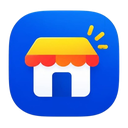
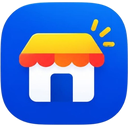
Prepare app for deployment

diff --git a/js/app.js b/js/app.js
@@ -545,7 +545,7 @@ async function checkout() {
     if (S.metode === 'qris') {
       const accepted = await confirmModal(
         'Simpan transaksi QRIS?',
-        'Simpan sebagai menunggu pembayaran',
+        'Simpan',
         'Transaksi belum dianggap lunas. Setelah pelanggan membayar, kasir perlu mencocokkan pembayaran dan mengonfirmasikannya secara manual.',
       );
       if (!accepted) return;
@@ -599,11 +599,12 @@ function showReceipt(sale) {
     ? `<section class="qris-payment"><h3>Pembayaran QRIS — ${rp(L.saleTotal(sale))}</h3><img class="qris-preview" src="${esc(S.cfg.qrisImage)}" alt="QRIS toko untuk transaksi ${esc(sale.id)}"><p>Pelanggan memindai QR ini dan membayar ${rp(L.saleTotal(sale))}. Konfirmasi hanya setelah pembayaran cocok pada aplikasi atau mutasi akun Anda.</p><span class="chip warn">Menunggu konfirmasi manual</span></section>`
     : '';
   const controls = pending
-    ? `<button class="btn primary receipt-confirm" data-act="confirm-qris" data-id="${esc(sale.id)}">Konfirmasi pembayaran diterima</button><button class="btn danger" data-act="cancel-qris" data-id="${esc(sale.id)}">Batalkan transaksi</button>`
+    ? `<button class="btn primary receipt-confirm" type="button" data-act="confirm-qris" data-id="${esc(sale.id)}">Simpan</button><button class="btn danger" type="button" data-act="cancel-qris" data-id="${esc(sale.id)}">Batal</button>`
     : '';
-  const d = openDialog(`<div class="dlg-body receipt-dialog"><button class="dialog-close no-print" type="button" data-close aria-label="Tutup modal" title="Tutup">×</button><h2>${pending ? 'Menunggu pembayaran QRIS' : 'Transaksi tersimpan'}</h2>
+  const otherControls = pending ? '' : `<button class="btn" data-act="receipt-pdf" data-id="${esc(sale.id)}">Unduh PDF</button><button class="btn" data-act="receipt-jpg" data-id="${esc(sale.id)}">Unduh JPG</button><button class="btn primary" data-act="share-receipt" data-id="${esc(sale.id)}" data-format="pdf">Bagikan PDF</button><button class="btn" data-act="share-receipt" data-id="${esc(sale.id)}" data-format="jpg">Bagikan JPG</button><button class="btn" data-act="print-receipt">Cetak</button><a class="btn" href="${L.waLink(cust ? cust.wa : '', text)}" target="_blank" rel="noopener noreferrer">Buka WhatsApp (lampirkan manual)</a>`;
+  const d = openDialog(`<div class="dlg-body receipt-dialog">${pending ? '' : '<button class="dialog-close no-print" type="button" data-close aria-label="Tutup modal" title="Tutup">×</button>'}<h2>${pending ? 'Menunggu pembayaran QRIS' : 'Transaksi tersimpan'}</h2>
     ${qris}<article class="receipt-paper" id="receipt-paper"><pre class="struk visually-hidden">${esc(text.replace(/\*/g, ''))}</pre></article>
-    <div class="receipt-actions no-print">${controls}<button class="btn" data-act="receipt-pdf" data-id="${esc(sale.id)}">Unduh PDF</button><button class="btn" data-act="receipt-jpg" data-id="${esc(sale.id)}">Unduh JPG</button><button class="btn primary" data-act="share-receipt" data-id="${esc(sale.id)}" data-format="pdf">Bagikan PDF</button><button class="btn" data-act="share-receipt" data-id="${esc(sale.id)}" data-format="jpg">Bagikan JPG</button><button class="btn" data-act="print-receipt">Cetak</button><a class="btn" href="${L.waLink(cust ? cust.wa : '', text)}" target="_blank" rel="noopener noreferrer">Buka WhatsApp (lampirkan manual)</a></div><p class="muted small no-print">WhatsApp tidak otomatis menerima file dari tautan pesan. Jika berbagi file tidak tersedia, unduh file, buka WhatsApp, lalu lampirkan secara manual.</p></div>`);
+    <div class="receipt-actions no-print">${controls}${otherControls}</div>${pending ? '' : '<p class="muted small no-print">WhatsApp tidak otomatis menerima file dari tautan pesan. Jika berbagi file tidak tersedia, unduh file, buka WhatsApp, lalu lampirkan secara manual.</p>'}</div>`);
   d.classList.add('receipt-modal');
   d.addEventListener('click', (event) => {
     if (event.target === d) d.close();
@@ -909,13 +910,24 @@ function repRange() {
   return [from, to];
 }
 function barChart(series) {
-  const W = 600, H = 170, pad = 8, max = Math.max(...series.map((s) => s.omzet), 1);
-  const bw = (W - pad * 2) / series.length;
-  const bars = series.map((s, i) => {
-    const h = (s.omzet / max) * (H - 34);
-    return `<rect x="${(pad + i * bw + bw * 0.15).toFixed(1)}" y="${(H - 18 - h).toFixed(1)}" width="${(bw * 0.7).toFixed(1)}" height="${h.toFixed(1)}" rx="2"><title>${s.date}: ${rp(s.omzet)}</title></rect>`;
+  const W = 720, H = 220, left = 72, right = 18, top = 24, bottom = 38;
+  const plotW = W - left - right, plotH = H - top - bottom;
+  const max = Math.max(...series.map((s) => s.omzet), 1);
+  const step = series.length > 1 ? plotW / series.length : plotW;
+  const labelStep = Math.max(1, Math.ceil(series.length / (window.innerWidth < 520 ? 5 : 8)));
+  const grid = [0, .25, .5, .75, 1].map((level) => {
+    const y = top + plotH * (1 - level);
+    return `<line x1="${left}" y1="${y}" x2="${W - right}" y2="${y}" class="chart-grid"/><text x="${left - 8}" y="${y + 4}" text-anchor="end" class="chart-axis">${level ? rp(max * level).replace(',00', '') : '0'}</text>`;
   }).join('');
-  return `<svg viewBox="0 0 ${W} ${H}" class="chart" role="img" aria-label="Grafik omzet harian">${bars}<text x="${pad}" y="${H - 3}">${series[0].date.slice(5)}</text><text x="${W - pad}" y="${H - 3}" text-anchor="end">${series[series.length - 1].date.slice(5)}</text><text x="${pad}" y="12">Tertinggi ${rp(max)}</text></svg>`;
+  const bars = series.map((s, i) => {
+    const h = s.omzet / max * plotH;
+    const x = left + i * step + Math.min(step * .18, 6);
+    const width = Math.max(3, step * .64);
+    return `<rect x="${x.toFixed(1)}" y="${(top + plotH - h).toFixed(1)}" width="${width.toFixed(1)}" height="${h.toFixed(1)}" rx="3"><title>${fmtDate(s.date)}: ${rp(s.omzet)}</title></rect>`;
+  }).join('');
+  const labels = series.map((s, i) => i % labelStep === 0 || i === series.length - 1
+    ? `<text x="${(left + i * step + step / 2).toFixed(1)}" y="${H - 10}" text-anchor="middle" class="chart-label">${s.date.slice(5)}</text>` : '').join('');
+  return `<div class="chart-wrap"><svg viewBox="0 0 ${W} ${H}" class="chart" role="img" aria-label="Grafik omzet harian"><g>${grid}${bars}${labels}</g></svg></div>`;
 }
 function vLaporan() {
   const [from, to] = repRange();
@@ -926,14 +938,17 @@ function vLaporan() {
   S.expenses.filter((e) => L.inRange(e.waktu, from, to)).forEach((e) => (byKat[e.kategori] = (byKat[e.kategori] || 0) + e.jumlah));
   const P = [['hari', 'Hari ini'], ['7', '7 hari terakhir'], ['30', '30 hari terakhir'], ['bulan', 'Bulan ini'], ['lalu', 'Bulan lalu'], ['kustom', 'Pilih tanggal']];
   const r = (l, v, cls = '') => `<tr class="${cls}"><td>${l}</td><td class="num">${v}</td></tr>`;
-  return `<section class="card no-print"><label class="field"><span>Periode</span><select id="rp">${P.map(([v, l]) => `<option value="${v}"${S.rep.preset === v ? ' selected' : ''}>${l}</option>`).join('')}</select></label>
-    ${S.rep.preset === 'kustom' ? `<div class="row"><label class="field"><span>Dari</span><input id="rf" type="date" value="${S.rep.from}"></label><label class="field"><span>Sampai</span><input id="rt" type="date" value="${S.rep.to}"></label></div>` : ''}</section>
-  <section class="card"><h2>Laba rugi</h2><p class="muted small">${fmtDate(from)} hingga ${fmtDate(to)} · ${esc(S.cfg.toko || 'WarungPintar')}</p>
+  const printRows = sold.map((item, index) => `<tr><td>${index + 1}</td><td>${esc(item.nama)}</td><td class="num">${item.qty}</td><td class="num">${rp(item.omzet / item.qty)}</td><td class="num">${rp(item.omzet)}</td></tr>`).join('');
+  const printTotal = sold.reduce((sum, item) => sum + item.omzet, 0);
+  return `<section class="report-page"><section class="card no-print report-filter"><label class="field"><span>Periode</span><select id="rp">${P.map(([v, l]) => `<option value="${v}"${S.rep.preset === v ? ' selected' : ''}>${l}</option>`).join('')}</select></label>
+    ${S.rep.preset === 'kustom' ? `<div class="row report-date-range"><label class="field"><span>Dari</span><input id="rf" type="date" value="${S.rep.from}"></label><label class="field"><span>Sampai</span><input id="rt" type="date" value="${S.rep.to}"></label></div>` : ''}</section>
+  <section class="card report-profit"><h2>Laba rugi</h2><p class="muted small">${fmtDate(from)} hingga ${fmtDate(to)} · ${esc(S.cfg.toko || 'WarungPintar')}</p>
     <table class="tbl">${r('Omzet penjualan', rp(s.omzet))}${r('Harga pokok penjualan', '−' + rp(s.hpp))}${r('<b>Laba kotor</b>', '<b>' + rp(s.labaKotor) + '</b>', 'sub')}${r('Pengeluaran usaha', '−' + rp(s.pengeluaran))}${r('<b>Laba bersih</b>', '<b class="' + (s.labaBersih < 0 ? 'neg' : 'pos') + '">' + rp(s.labaBersih) + '</b>', 'sub')}${r('Margin bersih', s.omzet ? pct(s.labaBersih / s.omzet) : '-')}${r('Jumlah transaksi', s.transaksi)}${r('Penarikan pribadi (tidak dihitung sebagai biaya)', rp(s.prive))}${r('Sisa piutang kasbon', rp(L.totalReceivable(S.debts, S.payments)))}</table></section>
-  <section class="card"><h2>Omzet harian</h2>${series.length > 62 ? '<p class="muted">Periode terlalu panjang untuk grafik harian. Pilih periode maksimal 2 bulan.</p>' : s.omzet ? barChart(series) : '<p class="muted">Belum ada penjualan pada periode ini.</p>'}</section>
-  <section class="card"><h2>Barang terjual (${sold.length} jenis)</h2>${sold.length ? `<div class="table-wrap"><table class="tbl"><thead><tr><th>Nama produk</th><th class="num">Jumlah terjual</th><th class="num">Omzet</th><th class="num">Laba kotor</th></tr></thead><tbody>${sold.map((item) => `<tr><td>${esc(item.nama)}</td><td class="num">${item.qty}</td><td class="num">${rp(item.omzet)}</td><td class="num">${rp(item.laba)}</td></tr>`).join('')}</tbody></table></div>` : '<p class="muted">Belum ada produk yang terjual pada periode ini.</p>'}</section>
+  <section class="card report-chart"><h2>Omzet harian</h2>${series.length > 62 ? '<p class="muted">Periode terlalu panjang untuk grafik harian. Pilih periode maksimal 2 bulan.</p>' : s.omzet ? barChart(series) : '<p class="muted">Belum ada penjualan pada periode ini.</p>'}</section>
+  <section class="card report-sold"><h2>Barang terjual (${sold.length} jenis)</h2>${sold.length ? `<div class="table-wrap"><table class="tbl"><thead><tr><th>Nama produk</th><th class="num">Jumlah terjual</th><th class="num">Omzet</th><th class="num">Laba kotor</th></tr></thead><tbody>${sold.map((item) => `<tr><td data-label="Nama produk">${esc(item.nama)}</td><td class="num" data-label="Jumlah terjual">${item.qty}</td><td class="num" data-label="Omzet">${rp(item.omzet)}</td><td class="num" data-label="Laba kotor">${rp(item.laba)}</td></tr>`).join('')}</tbody></table></div>` : '<p class="muted">Belum ada produk yang terjual pada periode ini.</p>'}</section>
   ${Object.keys(byKat).length ? `<section class="card"><h2>Pengeluaran per kategori</h2><ul class="rows">${Object.entries(byKat).map(([k, v]) => `<li><span>${esc(k)}</span><b>${rp(v)}</b></li>`).join('')}</ul></section>` : ''}
-  <div class="row wrap no-print"><button class="btn primary" data-act="xlsx">Unduh Excel (.xlsx)</button><button class="btn" data-act="csv">Unduh CSV</button><button class="btn" data-act="print">Cetak atau simpan PDF</button></div>`;
+  <div class="report-actions row wrap no-print"><button class="btn primary" data-act="xlsx">Unduh Excel (.xlsx)</button><button class="btn" data-act="csv">Unduh CSV</button><button class="btn" data-act="print">Cetak atau simpan PDF</button></div>
+  <section id="report-print" class="report-print" aria-hidden="true"><header><h1>Laporan Barang Terjual</h1><p>${esc(S.cfg.toko || 'WarungPintar')}</p><p>Periode: ${fmtDate(from)} hingga ${fmtDate(to)}</p></header><table><thead><tr><th>No.</th><th>Nama Barang</th><th>Jumlah</th><th>Harga Satuan Rata-rata</th><th>Total Penjualan</th></tr></thead><tbody>${sold.length ? printRows : '<tr><td colspan="5">Tidak ada barang terjual pada periode ini.</td></tr>'}</tbody>${sold.length ? `<tfoot><tr><td colspan="4">Total penjualan</td><td>${rp(printTotal)}</td></tr></tfoot>` : ''}</table><footer>Dicetak pada ${new Date().toLocaleString('id-ID')}</footer></section></section>`;
 }
 function downloadFile(name, mime, content) {
   const a = document.createElement('a');
@@ -1177,7 +1192,6 @@ const A = {
     if (!sale || sale.metode !== 'qris' || sale.statusPembayaran !== 'menunggu_konfirmasi') {
       return toast('Transaksi QRIS tidak lagi menunggu konfirmasi.', 'err');
     }
-    if (!(await confirmModal('Batalkan transaksi QRIS?', 'Batalkan transaksi', 'Status akan menjadi dibatalkan dan jumlah stok transaksi dikembalikan.'))) return;
     const canceled = { ...sale, statusPembayaran: 'dibatalkan', dibatalkanPada: new Date().toISOString() };
     await db.atomic(['sales', 'products'], (store) => {
       store('sales').put(canceled);
@@ -1294,7 +1308,7 @@ const A = {
   togglelunas: () => { S.showLunas = !S.showLunas; render(); },
   csv: exportCSV,
   xlsx: exportXlsx,
-  print: () => window.print(),
+  print: () => { document.body.classList.add('print-report'); setTimeout(() => window.print(), 50); },
   'print-receipt': () => { document.body.classList.add('print-receipt'); window.print(); document.body.classList.remove('print-receipt'); },
   saveprofile: async () => {
     const name = $('#s-toko').value.trim();
@@ -1394,6 +1408,8 @@ document.addEventListener('click', (e) => {
   const el = e.target.closest('[data-act]');
   if (!el || !A[el.dataset.act]) return;
   e.preventDefault();
+  if (el.disabled) return;
+  el.disabled = true;
   if (OWNER_ONLY_ACTIONS.has(el.dataset.act) && !OWNER()) {
     return toast('Fungsi ini hanya tersedia untuk pemilik toko.', 'err');
   }
@@ -1401,7 +1417,8 @@ document.addEventListener('click', (e) => {
     : el.dataset.act === 'logout' ? 'Sedang keluar...'
       : 'Sedang memproses...';
   withLoading(() => A[el.dataset.act](el.dataset, el), message, { showLoader: el.dataset.act !== 'confirm-qris' })
-    .catch((err) => { console.error(err); toast('Terjadi kesalahan: ' + err.message, 'err'); });
+    .catch((err) => { console.error(err); toast('Terjadi kesalahan: ' + err.message, 'err'); })
+    .finally(() => { if (el.isConnected) el.disabled = false; });
 });
 document.addEventListener('submit', (e) => {
   if (e.target.id === 'auth-form') {
@@ -1542,3 +1559,4 @@ addEventListener('online', netStatus); addEventListener('offline', netStatus);
     document.body.classList.add('app-ready');
   }
 })();
+window.addEventListener('afterprint', () => document.body.classList.remove('print-report'));

diff --git a/css/style.css b/css/style.css
@@ -2,7 +2,7 @@
 :root {
   --tinta: #172033; --biru: #1f3f9c; --biru-tua: #162d73; --kertas: #f6f7f2; --putih: #ffffff;
   --garis: #cdd6ea; --merah: #b8322a; --hijau: #17703f; --kuning: #f3c64b; --abu: #5b667d;
-  --r: 10px;
+  --r: 10px; --space-1: 4px; --space-2: 8px; --space-3: 12px; --space-4: 16px; --space-5: 24px;
 }
 * { box-sizing: border-box; }
 html { -webkit-text-size-adjust: 100%; }
@@ -29,14 +29,47 @@ a { color: var(--biru); }
   background: #fff; transition: opacity .28s ease, visibility .28s ease;
 }
 .app-splash-brand { display: flex; flex-direction: column; align-items: center; text-align: center; transform: translateY(-2vh); }
-.app-splash img { width: clamp(132px, 32vw, 190px); height: auto; margin-bottom: 18px; }
-.app-splash-name { font-family: "Arial Rounded MT Bold", "Segoe UI", sans-serif; font-size: clamp(2.15rem, 10vw, 3.35rem); line-height: 1; letter-spacing: -1px; }
-.app-splash-name span { color: #10152f; font-weight: 800; }
-.app-splash-name strong { position: relative; color: #2563eb; font-weight: 800; }
-.app-splash-name strong::before { content: ""; position: absolute; left: 18%; right: 2%; top: -.16em; height: 8px; border-top: 6px solid #ffc400; border-radius: 50%; transform: rotate(-12deg); }
-.app-splash-brand p { margin-top: 14px; color: #5d6375; font-size: clamp(.78rem, 3.2vw, 1rem); letter-spacing: 1px; }
+.app-splash img { width: min(86vw, 520px); height: auto; max-height: 62vh; object-fit: contain; }
 body.app-ready .app-splash { opacity: 0; visibility: hidden; pointer-events: none; }
 @media (prefers-reduced-motion: reduce) { .app-splash { transition: none; } }
+
+/* Tata letak laporan dan cetak */
+.report-page { display: grid; gap: var(--space-4); min-width: 0; }
+.report-filter, .report-profit, .report-chart, .report-sold { min-width: 0; }
+.report-date-range { width: 100%; }
+.report-date-range .field { flex: 1 1 180px; min-width: 0; }
+.report-actions { display: grid; grid-template-columns: repeat(3, minmax(0, 1fr)); gap: var(--space-2); }
+.report-actions .btn { width: 100%; }
+.chart-wrap { width: 100%; max-width: 100%; overflow-x: auto; padding-top: var(--space-2); }
+.chart { display: block; width: 100%; min-width: 320px; height: auto; }
+.chart-grid { stroke: var(--garis); stroke-width: 1; }
+.chart rect { fill: var(--biru); }
+.chart-axis { font-size: 13px; fill: var(--abu); }
+.chart-label { font-size: 12px; fill: var(--abu); }
+.report-print { display: none; }
+@media (max-width: 520px) {
+  main { gap: var(--space-3); }
+  .card { padding: var(--space-3); }
+  .report-page { width: 100%; }
+  .report-filter .row, .report-date-range { display: grid; grid-template-columns: minmax(0, 1fr); }
+  .report-profit { overflow: hidden; }
+  .report-profit .tbl { font-size: .88rem; }
+  .report-profit .tbl td:first-child { width: 58%; }
+  .report-profit .tbl td:last-child { width: 42%; }
+  .report-actions { grid-template-columns: minmax(0, 1fr); }
+  .report-actions .btn { min-height: 46px; }
+  .chart-wrap { margin-inline: 0; overflow-x: hidden; }
+  .chart { min-width: 0; width: 100%; }
+  .report-sold .table-wrap { margin-inline: 0; padding-inline: 0; overflow-x: hidden; }
+  .report-sold .table-wrap > .tbl { min-width: 0; }
+  .report-sold .tbl thead { display: none; }
+  .report-sold .tbl, .report-sold .tbl tbody, .report-sold .tbl tr, .report-sold .tbl td { display: block; width: 100%; }
+  .report-sold .tbl tr { border: 1px solid var(--garis); border-radius: var(--r); padding: 10px; margin-bottom: 10px; }
+  .report-sold .tbl tr:last-child { margin-bottom: 0; }
+  .report-sold .tbl td, .report-sold .tbl td:first-child { border: 0; padding: 4px 0; text-align: right; }
+  .report-sold .tbl td:first-child { text-align: left; font-weight: 800; font-size: 1rem; color: var(--tinta); }
+  .report-sold .tbl td:not(:first-child)::before { content: attr(data-label) ""; float: left; color: var(--abu); font-weight: 500; }
+}
 
 /* Header */
 .top {
@@ -337,14 +370,30 @@ dialog::backdrop { background: rgba(23,32,51,.55); }
 
 /* Cetak */
 @media print {
-  .no-print, .bottom, .top, .toast { display: none !important; }
-  body { background: #fff; padding: 0; }
-  .card, .nota { border: 0; }
+  .no-print, .bottom, .top, .toast, dialog, header, nav { display: none !important; }
+  body { background: #fff; padding: 0; font-size: 11pt; }
+  body.print-report main { display: block; }
+  body.print-report main > :not(.report-page) { display: none !important; }
+  body.print-report .report-page > :not(.report-print) { display: none !important; }
+  body.print-report .report-print { display: block !important; color: #111; }
+  .report-print header { display: block !important; position: static; background: none; color: #111; padding: 0 0 8mm; border: 0; }
+  .report-print h1 { font-size: 18pt; }
+  .report-print table { width: 100%; border-collapse: collapse; table-layout: fixed; }
+  .report-print th, .report-print td { padding: 3mm 2mm; border-bottom: 1px solid #aaa; font-size: 10pt; overflow-wrap: anywhere; }
+  .report-print th { border-top: 2px solid #111; border-bottom: 2px solid #111; text-align: left; }
+  .report-print th:nth-child(1), .report-print td:nth-child(1) { width: 8%; }
+  .report-print th:nth-child(3), .report-print td:nth-child(3) { width: 12%; text-align: right; }
+  .report-print th:nth-child(4), .report-print td:nth-child(4) { width: 25%; text-align: right; }
+  .report-print th:nth-child(5), .report-print td:nth-child(5) { width: 25%; text-align: right; }
+  .report-print tr { break-inside: avoid; }
+  .report-print tfoot td { border-top: 2px solid #111; border-bottom: 0; font-weight: bold; }
+  .report-print footer { margin-top: 6mm; font-size: 9pt; color: #555; }
   body.print-receipt main { display: none; }
   body.print-receipt dialog { position: static; box-shadow: none; width: 100%; max-width: 80mm; max-height: none; overflow: visible; }
+  body.print-receipt dialog, body.print-receipt dialog .dlg-body { display: block !important; }
   body.print-receipt .receipt-paper { width: 100%; margin: 0; }
   body.print-receipt .receipt-image { width: 100%; }
   body.print-receipt .qris-payment { display: none; }
-  body.print-receipt dialog .row { display: none; }
-  @page { margin: 6mm; }
+  body.print-receipt dialog .row, body.print-receipt .receipt-actions, body.print-receipt .dialog-close { display: none; }
+  @page { margin: 12mm; }
 }

diff --git a/index.html b/index.html
@@ -5,24 +5,22 @@
   <meta name="viewport" content="width=device-width, initial-scale=1, viewport-fit=cover">
   <meta name="theme-color" content="#1f3f9c">
   <meta name="description" content="WarungPintar: pencatatan penjualan, stok, kasbon, dan laporan untung rugi untuk warung dan UMKM. Bisa dipakai tanpa internet.">
-  <link rel="manifest" href="manifest.webmanifest?v=41">
-  <link rel="icon" href="icons/app-icon.svg" type="image/svg+xml">
-  <link rel="apple-touch-icon" sizes="192x192" href="icons/icon-192.png">
-  <link rel="apple-touch-startup-image" media="(device-width: 390px) and (device-height: 844px) and (-webkit-device-pixel-ratio: 3)" href="icons/splash-1170x2532.png">
-  <link rel="apple-touch-startup-image" media="(device-width: 375px) and (device-height: 812px) and (-webkit-device-pixel-ratio: 3)" href="icons/splash-1125x2436.png">
-  <link rel="apple-touch-startup-image" media="(min-device-width: 768px)" href="icons/splash-2048x2732.png">
+  <link rel="manifest" href="manifest.webmanifest?v=44">
+  <link rel="icon" sizes="192x192" href="icons/icon-192.png?v=44">
+  <link rel="apple-touch-icon" sizes="192x192" href="icons/icon-192.png?v=44">
+  <link rel="apple-touch-startup-image" media="(device-width: 390px) and (device-height: 844px) and (-webkit-device-pixel-ratio: 3)" href="icons/splash-1170x2532.png?v=44">
+  <link rel="apple-touch-startup-image" media="(device-width: 375px) and (device-height: 812px) and (-webkit-device-pixel-ratio: 3)" href="icons/splash-1125x2436.png?v=44">
+  <link rel="apple-touch-startup-image" media="(min-device-width: 768px)" href="icons/splash-2048x2732.png?v=44">
   <meta name="apple-mobile-web-app-capable" content="yes">
   <meta name="apple-mobile-web-app-status-bar-style" content="default">
   <meta name="apple-mobile-web-app-title" content="Warung Pintar">
-  <link rel="stylesheet" href="css/style.css?v=41">
+  <link rel="stylesheet" href="css/style.css?v=44">
   <title>Warung Pintar</title>
 </head>
 <body>
   <div id="app-splash" class="app-splash" role="presentation" aria-hidden="true">
     <div class="app-splash-brand">
-      <img src="icons/icon-192.png?v=41" alt="" width="192" height="192">
-      <div class="app-splash-name" aria-label="Warung Pintar"><span>Warung</span><strong>Pintar</strong></div>
-      <p>Belanja Mudah, Warung Makin Maju</p>
+      <img src="icons/logo-reference.png?v=44" alt="Warung Pintar - Belanja Mudah, Warung Makin Maju" width="1087" height="768">
     </div>
   </div>
   <header class="top no-print">
@@ -34,6 +32,6 @@
   <dialog id="dlg"></dialog>
   <div id="toast" class="toast" role="status"></div>
   <noscript><p>WarungPintar membutuhkan JavaScript.</p></noscript>
-  <script type="module" src="js/app.js?v=40"></script>
+  <script type="module" src="js/app.js?v=44"></script>
 </body>
 </html>

diff --git a/sw.js b/sw.js
@@ -1,9 +1,9 @@
 // Service worker: menyimpan berkas aplikasi agar bisa dibuka tanpa internet.
 // Naikkan VERSI setiap kali berkas aplikasi diubah agar cache diperbarui.
-const VERSI = 'warungpintar-v41';
+const VERSI = 'warungpintar-v44';
 const BERKAS = ['./', './index.html', './css/style.css', './js/app.js', './js/db.js', './js/logic.js', './js/receipt.js',
   './js/xlsx.js', './js/config.js', './js/crypto.js', './js/supabase.js', './js/cloud-sync.js',
-  './manifest.webmanifest', './icons/app-icon.svg', './icons/icon-128.png', './icons/icon-192.png', './icons/icon-512.png', './icons/icon-maskable-512.png', './icons/splash-1125x2436.png', './icons/splash-1170x2532.png', './icons/splash-2048x2732.png'];
+  './manifest.webmanifest', './icons/icon-128.png', './icons/icon-192.png', './icons/icon-512.png', './icons/icon-maskable-512.png', './icons/logo-reference.png', './icons/original-attached-icon.png', './icons/splash-1125x2436.png', './icons/splash-1170x2532.png', './icons/splash-2048x2732.png'];
 
 self.addEventListener('install', (e) => {
   e.waitUntil(caches.open(VERSI).then((cache) => Promise.all(BERKAS.map(async (file) => {
